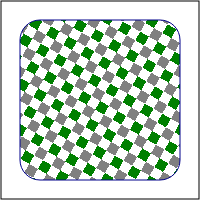
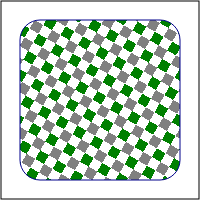
Anchor pattern transforms at the user-space origin
patternTransform acts in user space about the user origin, while the
brush transform acts about the fill target bounds — so the matrix
(after its transform-origin conjugation) now conjugates by the bounds
offset. This closes the long-quarantined composition gap: an element
rotating one way under a pattern rotating the other now cancels into an
axis-aligned grid with the right tile phase, matching every reference,
and the plain patternTransform and pattern-text goldens snap to theirs.

The objectBoundingBox variant stays quarantined: the relative tile
mapping composes with the brush transform at a different stage, which
is DrawingRecordingBrush lowering work.

paint-servers: 149/149. Corpus total 1192/1282.

diff --git a/src/Avalonia.Svg/Compilation/SvgPatterns.cs b/src/Avalonia.Svg/Compilation/SvgPatterns.cs
@@ -105,13 +105,19 @@ internal static class SvgPatterns
             && SvgTransformParser.TryParse(transformValue.AsSpan(), out var transform)
             && !transform.IsIdentity)
         {
-            // transform-origin conjugates the pattern transform. The brush
-            // transform applies relative to the target bounds, so the
-            // reference boxes shift into that space.
+            // patternTransform (and its transform-origin) acts in user space,
+            // anchored at the user origin. The brush transform acts in the
+            // target-bounds-relative space, so the whole matrix conjugates by
+            // the bounds offset.
             transform = SvgCompiler.ApplyTransformOrigin(
-                element, transform,
-                new Rect(-bounds.X, -bounds.Y, context.Viewport.Width, context.Viewport.Height),
-                new Rect(0, 0, bounds.Width, bounds.Height));
+                element, transform, new Rect(context.Viewport), bounds);
+            if (bounds.X != 0 || bounds.Y != 0)
+            {
+                transform = Matrix.CreateTranslation(bounds.X, bounds.Y)
+                            * transform
+                            * Matrix.CreateTranslation(-bounds.X, -bounds.Y);
+            }
+
             brush.Transform = new ImmutableTransform(transform);
         }
 